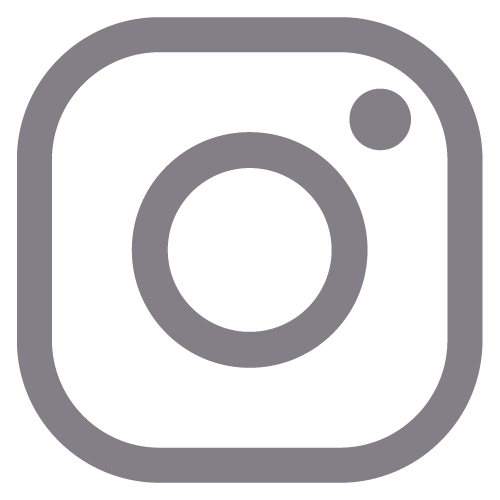
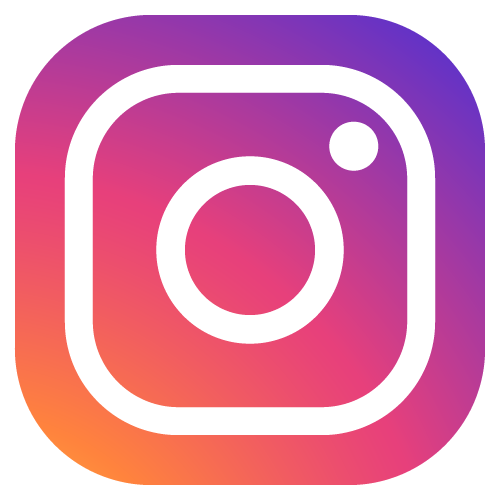
instagram

diff --git a/talbot/css/styletwo.css b/talbot/css/styletwo.css
@@ -41,20 +41,39 @@ p {
     padding-right: 3.5%;
 }
 
-.instalink img {
-    transition: all 0.5s ease;
-    background-color: rgba(0,0,0,0);
-    height: 100%;
-    width: 15%;
-    height: auto;
+.instagram {
+    text-align: center;
+}
 
+.instalink {
+    height: 100%;
+    display: block;
+    background-image: url(../assets/imgs/instaback.png);
+    background-repeat: no-repeat;
+    background-position: center;
+    background-size: contain;
+    transition: all 0.5s ease;
+}
+
+.instalink:hover {
+    transition: all 0.5s ease;
+    background-image: url(../assets/imgs/instaback.png);
+}
+
+.instalink img {
+    height: auto;
+    width: 15%;
+    transition: all 0.5s ease;
 }
 
 .instalink img:hover {
-    transition: all 0.75s ease;
-    background-color: rgba(200,200,200,0.2);
-    border-radius: 10px;
+    height: auto;
+    width: 15%;
+    transition: all 0.5s ease;
+    background-color: rgba(0,0,0,0.25);
 }
+
+
 
 /* Scroll Bar
 ========================================================================== */

diff --git a/talbot/alternate.html b/talbot/alternate.html
@@ -202,9 +202,9 @@
                 </div>
                 <div class="col-lg-4"></div>
 
-                <div style="width: 100%; height: 5px;"></div>
+                <div style="width: 100%; height: 30vh;"></div>
                 <div class="col-lg-5"></div>
-                <div class="col-lg-2" style="text-align: center;"><a class="instalink" href="#"><img src="assets/imgs/instagram.png" /></a> </div>
+                <div class="col-lg-2" style="text-align: center;"><a class="instalink" href="#"><img src="assets/imgs/instaCam.png" /></a> </div>
                 <div class="col-lg-5"></div>
 
             </div>
